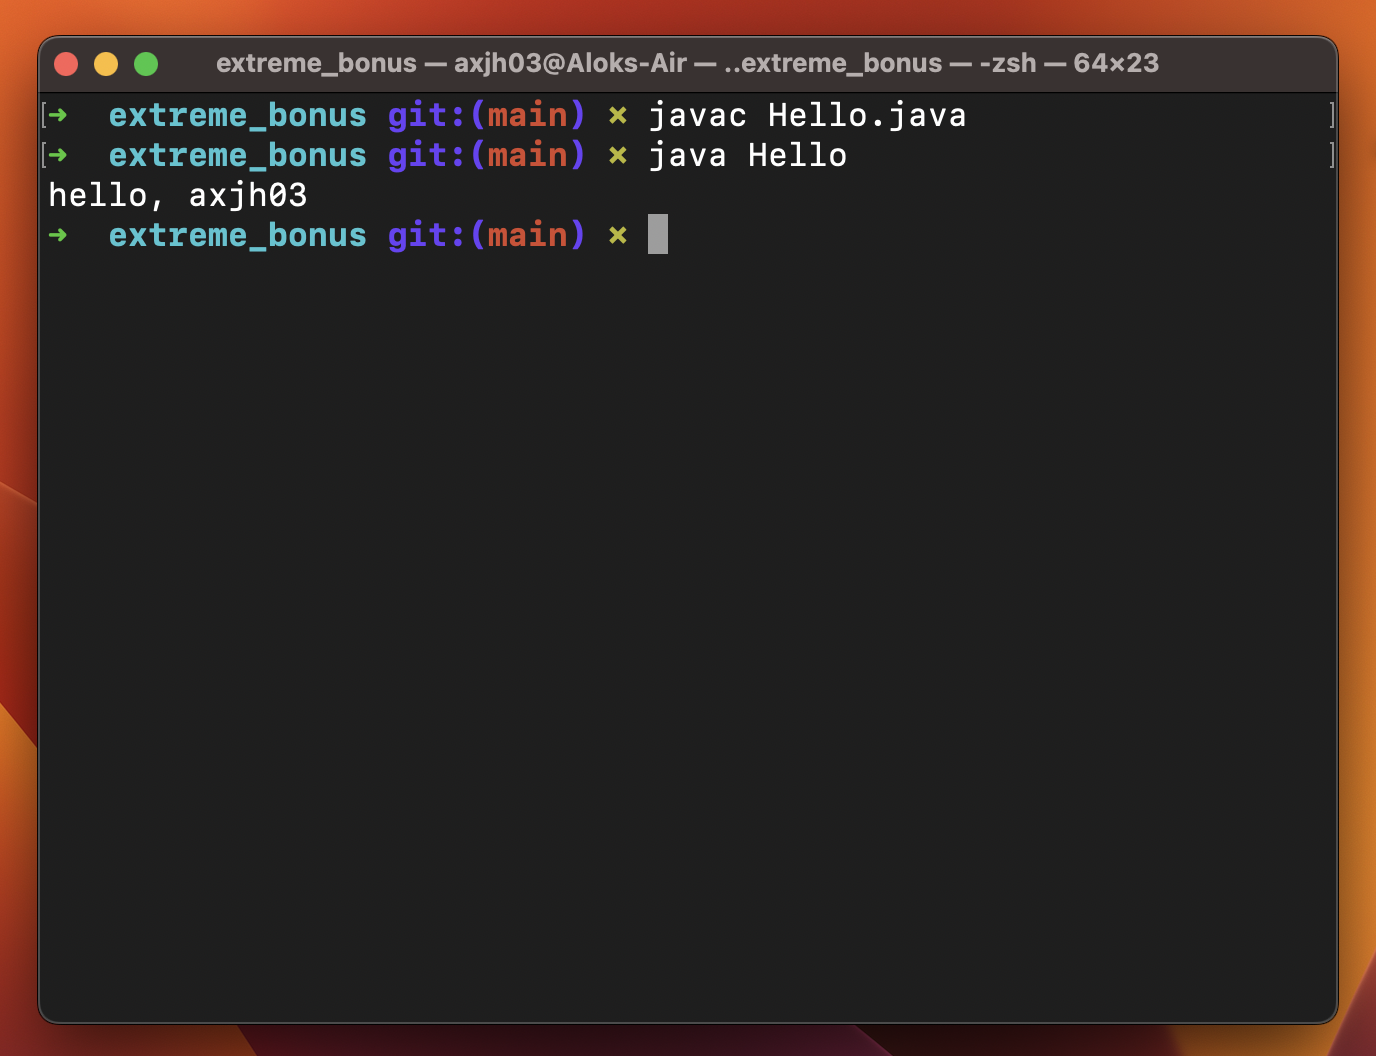
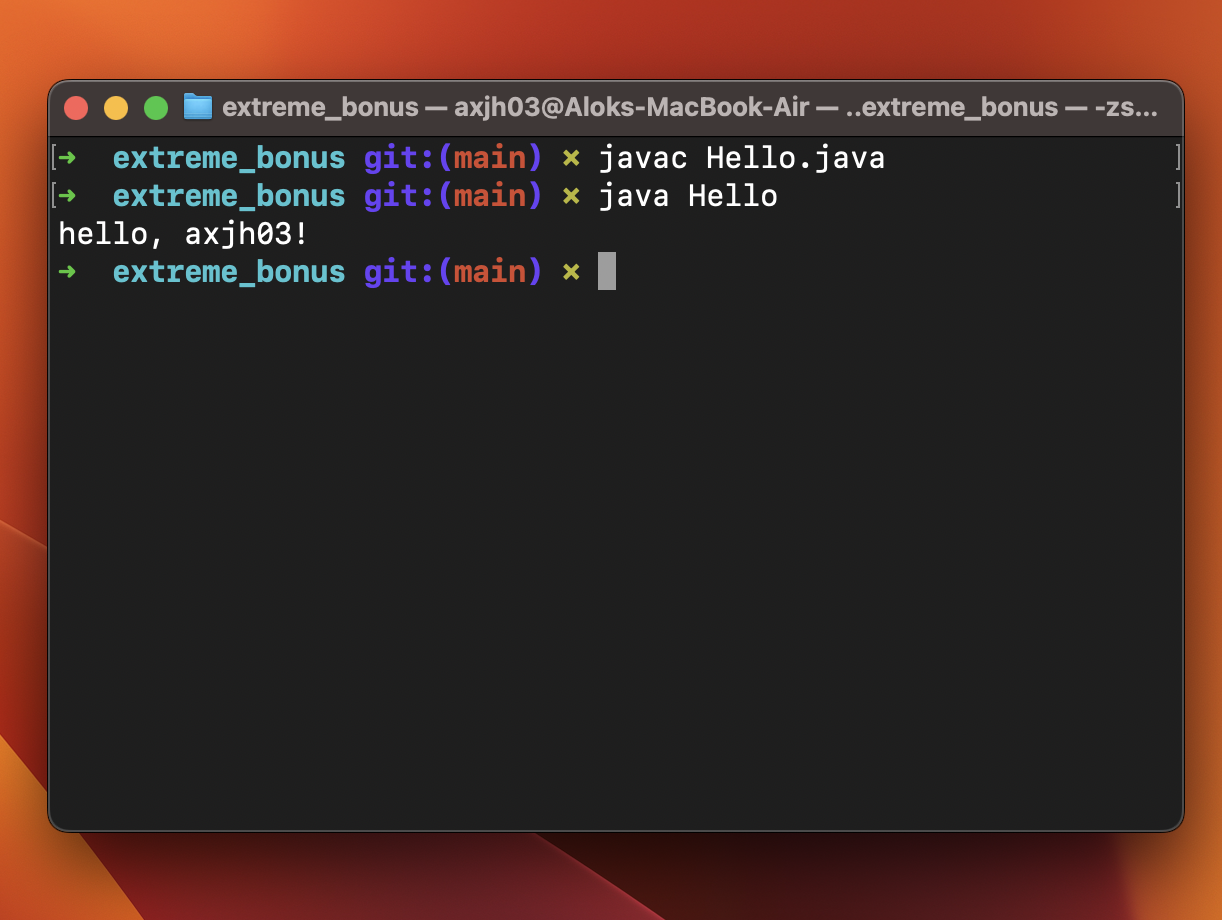
P01 extreme bonus

Changed region(s): [[0.0, 0.0, 1.0, 1.0]]

diff --git a/P01/extreme_bonus/Hello.java b/P01/extreme_bonus/Hello.java
@@ -6,7 +6,7 @@ public class Hello {
 
     String user = System.getProperty("user.name");
     
-    System.out.println("hello, " + user);
+    System.out.println("hello, " + user + "!");
 
   }
 
